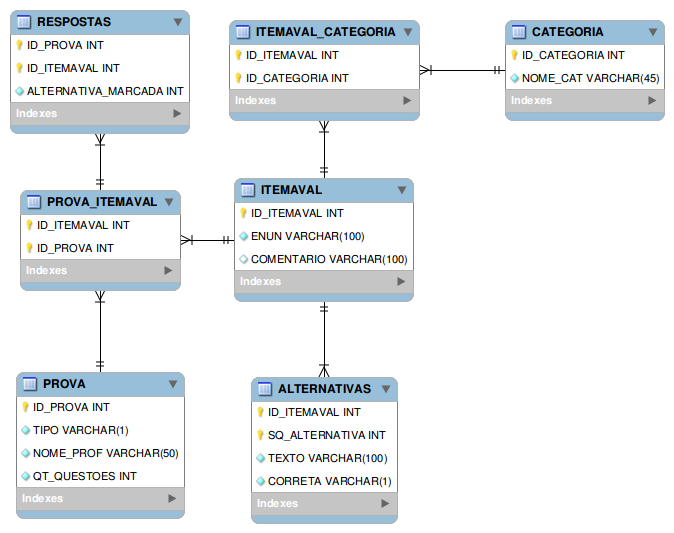
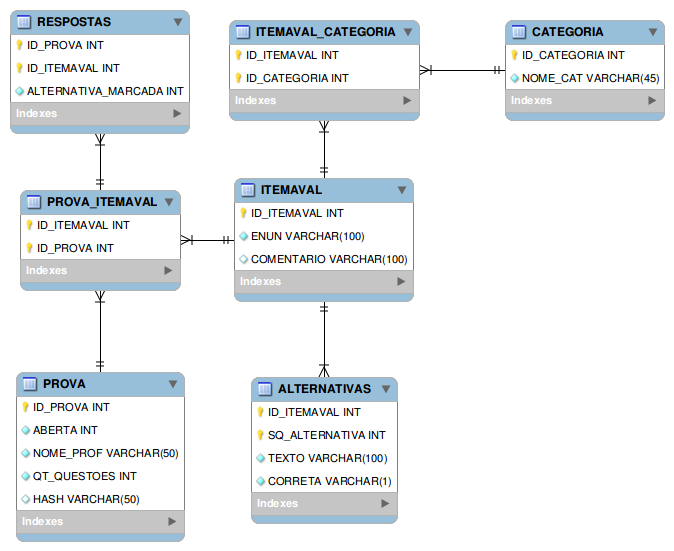
Adicões a modelagem da "Prova" e outras menores ao "SistemaFachada"

diff --git a/GestãoDeAvaliações/src/Negocio/Prova.java b/GestãoDeAvaliações/src/Negocio/Prova.java
@@ -3,7 +3,6 @@
  * To change this template file, choose Tools | Templates
  * and open the template in the editor.
  */
-
 package Negocio;
 
 /**
@@ -11,24 +10,23 @@ package Negocio;
  * @author Ildevana
  */
 public class Prova {
+
     private int idProva;
-    private String tipo;
+    private boolean aberta;
     private String nomeProf;
     private int qtdProva;
-    
-     public Prova(int idProva, String tipo, String nomeProf, int qtdProva) {
+    private String hash;
+
+    public Prova(int idProva, boolean aberta, String nomeProf, int qtdProva, String hash) {
         this.idProva = idProva;
-        this.tipo = tipo;
+        this.aberta = aberta;
         this.nomeProf = nomeProf;
         this.qtdProva = qtdProva;
+        this.hash = hash;
     }
 
     public int getIdProva() {
         return idProva;
-    }
-
-    public String getTipo() {
-        return tipo;
     }
 
     public String getNomeProf() {
@@ -43,10 +41,6 @@ public class Prova {
         this.idProva = id_Prova;
     }
 
-    public void setTipo(String tipo) {
-        this.tipo = tipo;
-    }
-
     public void setNomeProf(String nomeProf) {
         this.nomeProf = nomeProf;
     }
@@ -54,6 +48,26 @@ public class Prova {
     public void setQtdProva(int qtdProva) {
         this.qtdProva = qtdProva;
     }
-     
-     
+
+    /**
+     * @return the aberta
+     */
+    public boolean isAberta() {
+        return aberta;
+    }
+
+    /**
+     * @param aberta the aberta to set
+     */
+    public void setAberta(boolean aberta) {
+        this.aberta = aberta;
+    }
+
+    /**
+     * @return the hash
+     */
+    public String getHash() {
+        return hash;
+    }
+
 }

diff --git a/GestãoDeAvaliações/src/Negocio/ProvaDAO.java b/GestãoDeAvaliações/src/Negocio/ProvaDAO.java
@@ -15,6 +15,7 @@ import java.util.List;
 public abstract class ProvaDAO {
         public abstract List<Prova> buscarTodas() throws DAOException;
 	public abstract Prova buscarPorId(int idProva) throws DAOException;
+	public abstract Prova buscarPorHash(int hashProva) throws DAOException;
 	public abstract void inserir(Prova prova) throws DAOException;
 	public abstract void alterar(Prova prova) throws DAOException;
         public abstract List<ItemAval> getItens(int idProva) throws DAOException;
